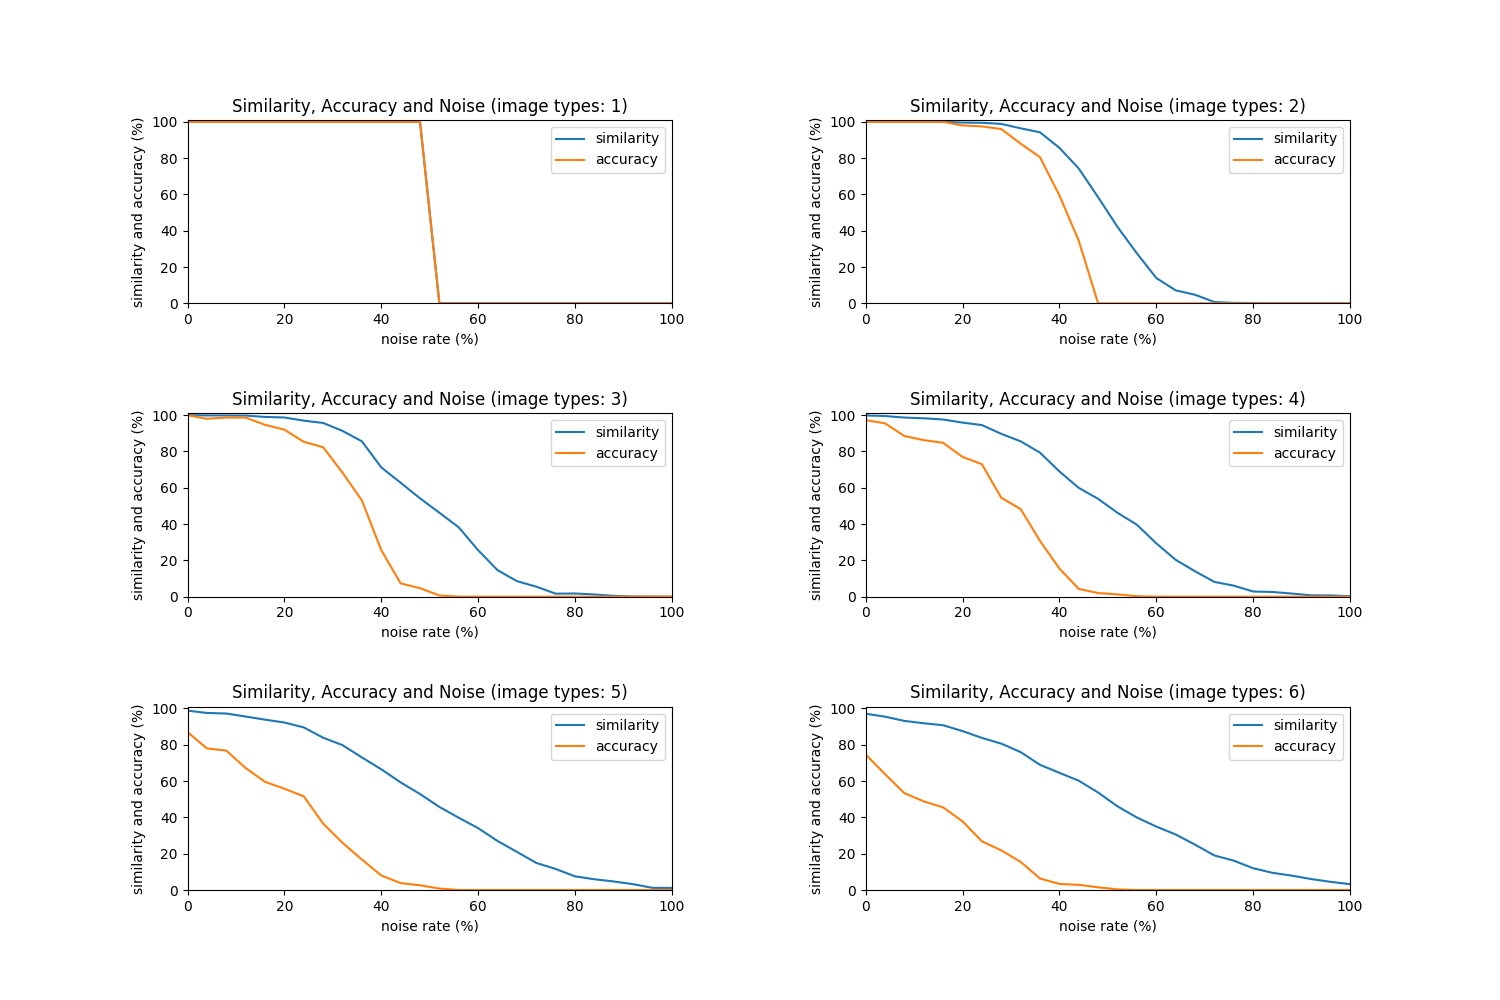
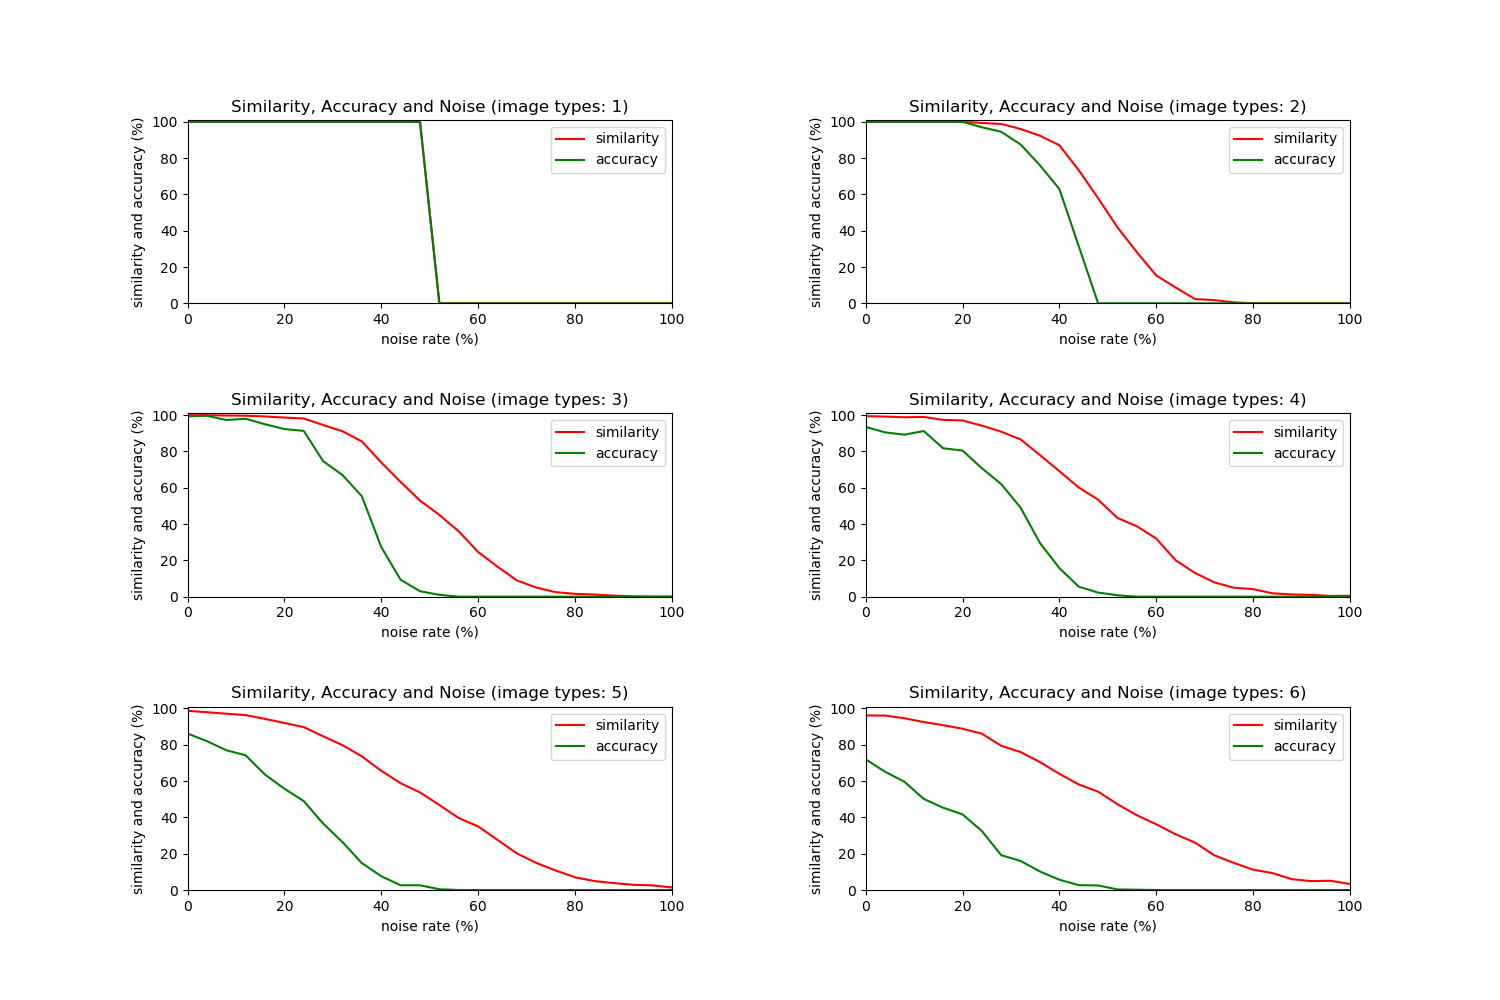
updated

diff --git a/main.py b/main.py
@@ -27,6 +27,31 @@ def create_images(n):
     return images
 
 
+# 直交性の高い記憶パターンの生成
+# n >= 3 以上で直交性の高い記憶パターンを生成する
+def create_orthgonal_images(n):
+    if n < 3:
+        return create_images(n)
+    else:
+        images = []
+        individual_num = 25 // n
+        if individual_num >= 7:
+            replace_index = random.sample(range(25), 25)
+        if individual_num < 7:
+            individual_num = 7
+            replace_index = random.sample(range(25), 25)
+            replace_index += random.sample(range(25), n*individual_num - 25)
+
+        for i in range(n):
+            img = np.ones((5,5))
+            img = img.flatten()
+            for j in range(individual_num):
+                img[replace_index[i * individual_num + j]] = -1
+            img = img.reshape((5, 5))
+            images.append(img)
+        return images
+
+
 # 類似度と正解したかどうか(正解->1, 不正解->0)を返す
 def check(answer, recollected):
     match = (answer == recollected)  # 配列の中で各要素が一致した数を返す
@@ -150,7 +175,7 @@ def main2():
         print("画像の種類 : {},   類似度 : {:.1f},   正答率 : {:.1f}".format(n, similarity_sum, correct_sum * 100))
 
 
-# 画像が1~6種類(2種類と4種類)の場合について，ノイズを0%から100%まで徐々に増やして想起性能を調べる
+# 画像が1~6種類(2種類と4種類の時を含む)の場合について，ノイズを0%から100%まで徐々に増やして想起性能を調べる
 def main3():
     num_of_images = [n for n in range(1, 7)]  # 画像の種類は1~6種類
     num_of_trials = 100  # 試行回数は100回とする
@@ -185,8 +210,8 @@ def main3():
     # グラフの描画
     fig, axes = plt.subplots(3, 2, figsize=(15, 10))
     for i in range(len(num_of_images)):
-        axes.flat[i].plot(noise_list, total_sim_list[i], label='similarity')
-        axes.flat[i].plot(noise_list, total_acc_list[i], label='accuracy')
+        axes.flat[i].plot(noise_list, total_sim_list[i], label='similarity', color='r')
+        axes.flat[i].plot(noise_list, total_acc_list[i], label='accuracy', color='g')
         axes.flat[i].set_xlabel("noise rate (%)")
         axes.flat[i].set_xlim(0, 100)
         axes.flat[i].set_ylabel("similarity and accuracy (%)")
@@ -197,10 +222,175 @@ def main3():
     plt.subplots_adjust(wspace=0.4, hspace=0.6)
     # グラフを保存
     plt.savefig("figures/figure3.png")
+
+
+# 画像が1~6種類(2種類と4種類)の場合について，ノイズを0%から100%まで徐々に増やして想起性能を調べる
+# 記憶する画像パターンの直交性が高い場合についても調べる
+def main4():
+    num_of_images = [n for n in range(1, 7)]  # 画像の種類は1~6種類
+    num_of_trials = 100  # 試行回数は100回とする
+    noise_list = [i for i in range(0, 101, 4)]   # 0~100%まで4%ずつノイズを増やす
+    total_sim_list = []
+    total_acc_list = []
+    # 通常の画像パターン(直交性の高くない)で想起する時
+    for n in num_of_images:
+        sim_list = []
+        acc_list = []
+        for noise_percentage in noise_list:
+            similarity_sum = 0
+            correct_sum = 0
+            for i in range(num_of_trials):
+                hopfield = Hopfield_Network()
+                image = create_images(n)  # n個の画像を生成
+                hopfield.train(image)   # 元画像を記憶させる
+                for j in range(n):
+                    target_image = image[j]
+                    noise = int(25 * noise_percentage / 100)   # ノイズを加える
+                    noise_added_img = add_noise(target_image, noise)
+                    recollected_img = hopfield.recollect(noise_added_img)
+                    similarity, correct = check(target_image, recollected_img)
+                    similarity_sum += similarity / (n * num_of_trials)
+                    correct_sum += correct / (n * num_of_trials)
+            
+            sim_list.append(similarity_sum)
+            acc_list.append(correct_sum * 100)
+
+        total_sim_list.append(sim_list)
+        total_acc_list.append(acc_list)
+
+    # 直交性の高い画像パターンを記憶して想起する時
+    total_sim_list_orthgonal = []
+    total_acc_list_orthgonal = []
+    for n in num_of_images:
+        sim_list_orthgonal = []
+        acc_list_orthgonal = []
+        for noise_percentage in noise_list:
+            similarity_sum = 0
+            correct_sum = 0
+            for i in range(num_of_trials):
+                hopfield = Hopfield_Network()
+                image = create_orthgonal_images(n)  # n個の画像(直交性が高い)を生成
+                hopfield.train(image)   # 元画像を記憶させる
+                for j in range(n):
+                    target_image = image[j]
+                    noise = int(25 * noise_percentage / 100)   # ノイズを加える
+                    noise_added_img = add_noise(target_image, noise)
+                    recollected_img = hopfield.recollect(noise_added_img)
+                    similarity, correct = check(target_image, recollected_img)
+                    similarity_sum += similarity / (n * num_of_trials)
+                    correct_sum += correct / (n * num_of_trials)
+            
+            sim_list_orthgonal.append(similarity_sum)
+            acc_list_orthgonal.append(correct_sum * 100)
+
+        total_sim_list_orthgonal.append(sim_list_orthgonal)
+        total_acc_list_orthgonal.append(acc_list_orthgonal)
+    
+    # グラフの描画
+    fig, axes = plt.subplots(3, 2, figsize=(15, 10))
+    for i in range(len(num_of_images)):
+        axes.flat[i].plot(noise_list, total_sim_list[i], label='similarity', color='r')
+        axes.flat[i].plot(noise_list, total_acc_list[i], label='accuracy', color='g')
+        axes.flat[i].plot(noise_list, total_sim_list_orthgonal[i], label='similarity (highly orthogonal)', color='b')
+        axes.flat[i].plot(noise_list, total_acc_list_orthgonal[i], label='accuracy (highly orthogonal)', color='c')
+        axes.flat[i].set_xlabel("noise rate (%)")
+        axes.flat[i].set_xlim(0, 100)
+        axes.flat[i].set_ylabel("similarity and accuracy (%)")
+        axes.flat[i].set_ylim(0, 101)
+        axes.flat[i].legend(loc="best")
+        axes.flat[i].set_title("Similarity, Accuracy and Noise (image types: {})".format(i+1))
+    # 余白を設定
+    plt.subplots_adjust(wspace=0.4, hspace=0.6)
+    # グラフを保存
+    plt.savefig("figures/figure4.png")
+
+
+
+# 画像が1~6種類(2種類と4種類)の場合について，ノイズを0%から100%まで徐々に増やして想起性能を調べる
+# 自己結合が無い場合とある場合とで比較
+def main5():
+    num_of_images = [n for n in range(1, 7)]  # 画像の種類は1~6種類
+    num_of_trials = 100  # 試行回数は100回とする
+    noise_list = [i for i in range(0, 101, 4)]   # 0~100%まで4%ずつノイズを増やす
+    total_sim_list = []
+    total_acc_list = []
+    # 自己結合なし
+    for n in num_of_images:
+        sim_list = []
+        acc_list = []
+        for noise_percentage in noise_list:
+            similarity_sum = 0
+            correct_sum = 0
+            for i in range(num_of_trials):
+                hopfield = Hopfield_Network()
+                image = create_images(n)  # n個の画像を生成
+                hopfield.train(image)   # 元画像を記憶させる
+                for j in range(n):
+                    target_image = image[j]
+                    noise = int(25 * noise_percentage / 100)   # ノイズを加える
+                    noise_added_img = add_noise(target_image, noise)
+                    recollected_img = hopfield.recollect(noise_added_img)
+                    similarity, correct = check(target_image, recollected_img)
+                    similarity_sum += similarity / (n * num_of_trials)
+                    correct_sum += correct / (n * num_of_trials)
+            
+            sim_list.append(similarity_sum)
+            acc_list.append(correct_sum * 100)
+
+        total_sim_list.append(sim_list)
+        total_acc_list.append(acc_list)
+
+    # 自己結合あり
+    total_sim_list_orthgonal = []
+    total_acc_list_orthgonal = []
+    for n in num_of_images:
+        sim_list_orthgonal = []
+        acc_list_orthgonal = []
+        for noise_percentage in noise_list:
+            similarity_sum = 0
+            correct_sum = 0
+            for i in range(num_of_trials):
+                hopfield = Hopfield_Network()
+                image = create_images(n)  # n個の画像を生成
+                hopfield.train_with_self_connection(image)   # 元画像を記憶させる, 自己結合あり
+                for j in range(n):
+                    target_image = image[j]
+                    noise = int(25 * noise_percentage / 100)   # ノイズを加える
+                    noise_added_img = add_noise(target_image, noise)
+                    recollected_img = hopfield.recollect(noise_added_img)
+                    similarity, correct = check(target_image, recollected_img)
+                    similarity_sum += similarity / (n * num_of_trials)
+                    correct_sum += correct / (n * num_of_trials)
+            
+            sim_list_orthgonal.append(similarity_sum)
+            acc_list_orthgonal.append(correct_sum * 100)
+
+        total_sim_list_orthgonal.append(sim_list_orthgonal)
+        total_acc_list_orthgonal.append(acc_list_orthgonal)
+    
+    # グラフの描画
+    fig, axes = plt.subplots(3, 2, figsize=(15, 10))
+    for i in range(len(num_of_images)):
+        axes.flat[i].plot(noise_list, total_sim_list[i], label='similarity (no self-connection)', color='r')
+        axes.flat[i].plot(noise_list, total_acc_list[i], label='accuracy (no self-conection)', color='g')
+        axes.flat[i].plot(noise_list, total_sim_list_orthgonal[i], label='similarity (with self-connection)', color='m')
+        axes.flat[i].plot(noise_list, total_acc_list_orthgonal[i], label='accuracy (with self-connection)', color='y')
+        axes.flat[i].set_xlabel("noise rate (%)")
+        axes.flat[i].set_xlim(0, 100)
+        axes.flat[i].set_ylabel("similarity and accuracy (%)")
+        axes.flat[i].set_ylim(0, 101)
+        axes.flat[i].legend(loc="best")
+        axes.flat[i].set_title("Similarity, Accuracy and Noise (image types: {})".format(i+1))
+    # 余白を設定
+    plt.subplots_adjust(wspace=0.4, hspace=0.6)
+    # グラフを保存
+    plt.savefig("figures/figure5.png")
     
 
 
 if __name__ == '__main__':
-    #main1()
-    #main2()
+    main1()
+    main2()
     main3()
+    main4()
+    main5()

diff --git a/hopfield.py b/hopfield.py
@@ -9,12 +9,21 @@ class Hopfield_Network():
         self.weight = np.zeros([5 * 5, 5 * 5])  # 重みパラメータ初期化
 
 
+    # 自己結合なし
     def train(self, train_list):
         N = len(train_list)
         for i in range(N):
             train_flatten = np.ravel(train_list[i]).reshape([5 * 5, 1])  # 一次元化
             self.weight += np.dot(train_flatten, train_flatten.T) / N
         np.fill_diagonal(self.weight, 0)  # 強制的に対角成分は、w_i_i = 0 とする
+
+
+    # 自己結合あり
+    def train_with_self_connection(self, train_list):
+        N = len(train_list)
+        for i in range(N):
+            train_flatten = np.ravel(train_list[i]).reshape([5 * 5, 1])  # 一次元化
+            self.weight += np.dot(train_flatten, train_flatten.T) / N
 
 
     def potential_energy(self, input_flatten):
